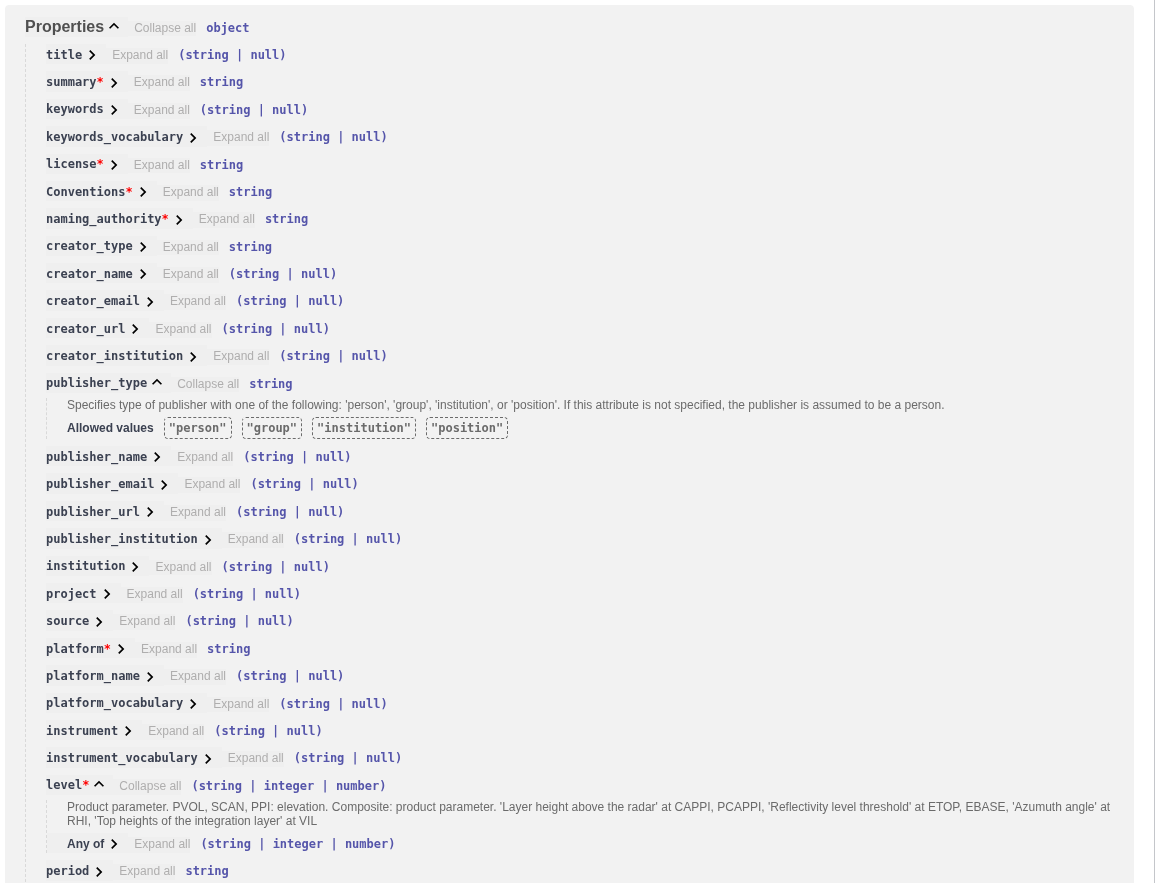
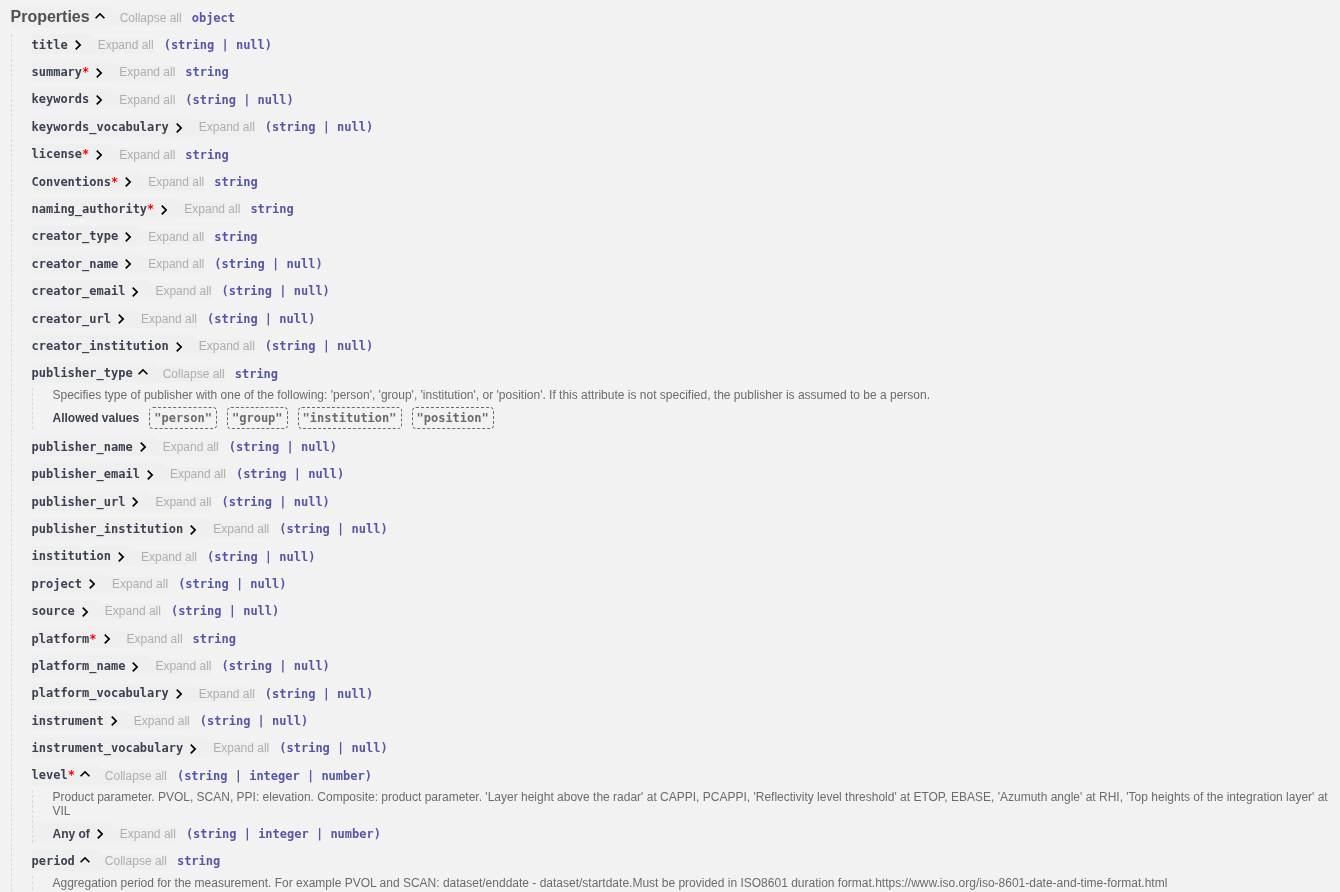
Add properties to ingest

Changed region(s): [[0.0, 0.0, 1.0, 1.0], [0.2485, 0.2446, 0.2796, 0.2752]]

diff --git a/ORD_INGEST.md b/ORD_INGEST.md
@@ -26,7 +26,7 @@ The [ORD Ingestion API](https://radar.meteogate.eu/ingest/docs) includes three e
 
 ![JSON Endpoint](source/images/ORD_Ingest_JSON_endpoint.png)
 
-#### Swagget UI Usage:
+#### Swagger UI Usage:
 1. Klick to "Try it out" button
 2. Insert your schema to the textbox
 3. Klick to Execute button, and return- code 200 means "Succesfully ingested" 
@@ -58,12 +58,16 @@ curl -X 'POST' \
 [Openradardata-validator](https://github.com/EUMETNET/openradardata-validator) includes a JSON message generator for creating custom ``json_upload_schema`` files and a validator script to verify the schema. The message generator creates distinct JSON schemas for each quantity at each level. Generate your schema(s) and customise it.
 
 ## Make the upload schema manually
+Scroll down and check the properties in the Schemas box.
+ 
+![API INGEST](source/images/ORD_Properties.png)
+
 1. ``coordinates``:
     - Single site: use site coordinates
     - Composite: use the central(math average) point coordinates. (Corner coordinates TBD) 
 2. ``platform``:
     - Single site data: use the existing Wigos Id of radar
-    - Composite data: dgenerate a unique id for your each grid, for example: 0-578-0-S_Norway_Comp_v1 , where:
+    - Composite data: generate a unique id for your each grid, for example: 0-578-0-S_Norway_Comp_v1 , where:
         - 578: Norway ISO country code
         - S_Norway_Comp_v1: unique ID. Max length 16, the use of '-' character is not allowed.
 3. ``license``:  https://creativecommons.org/licenses/by/4.0/ (for example)
